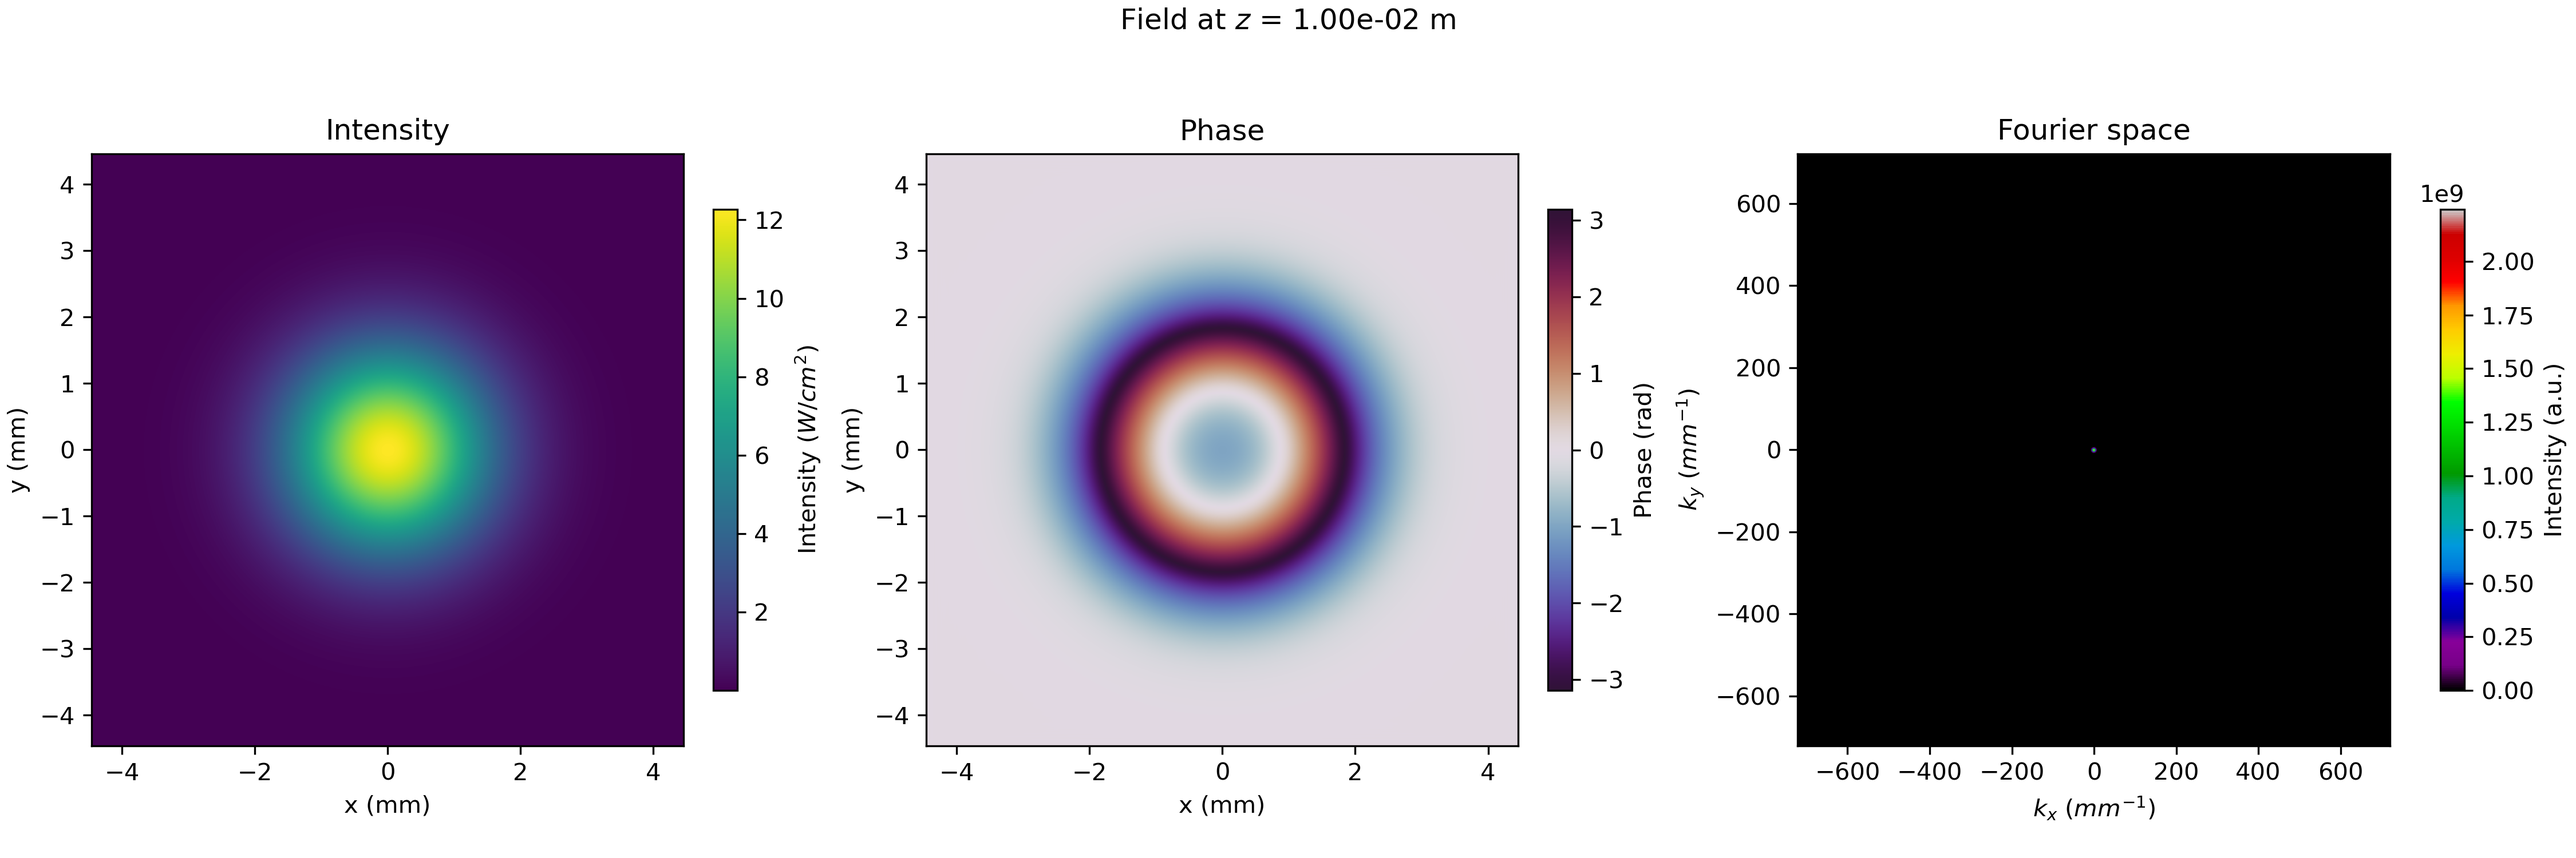
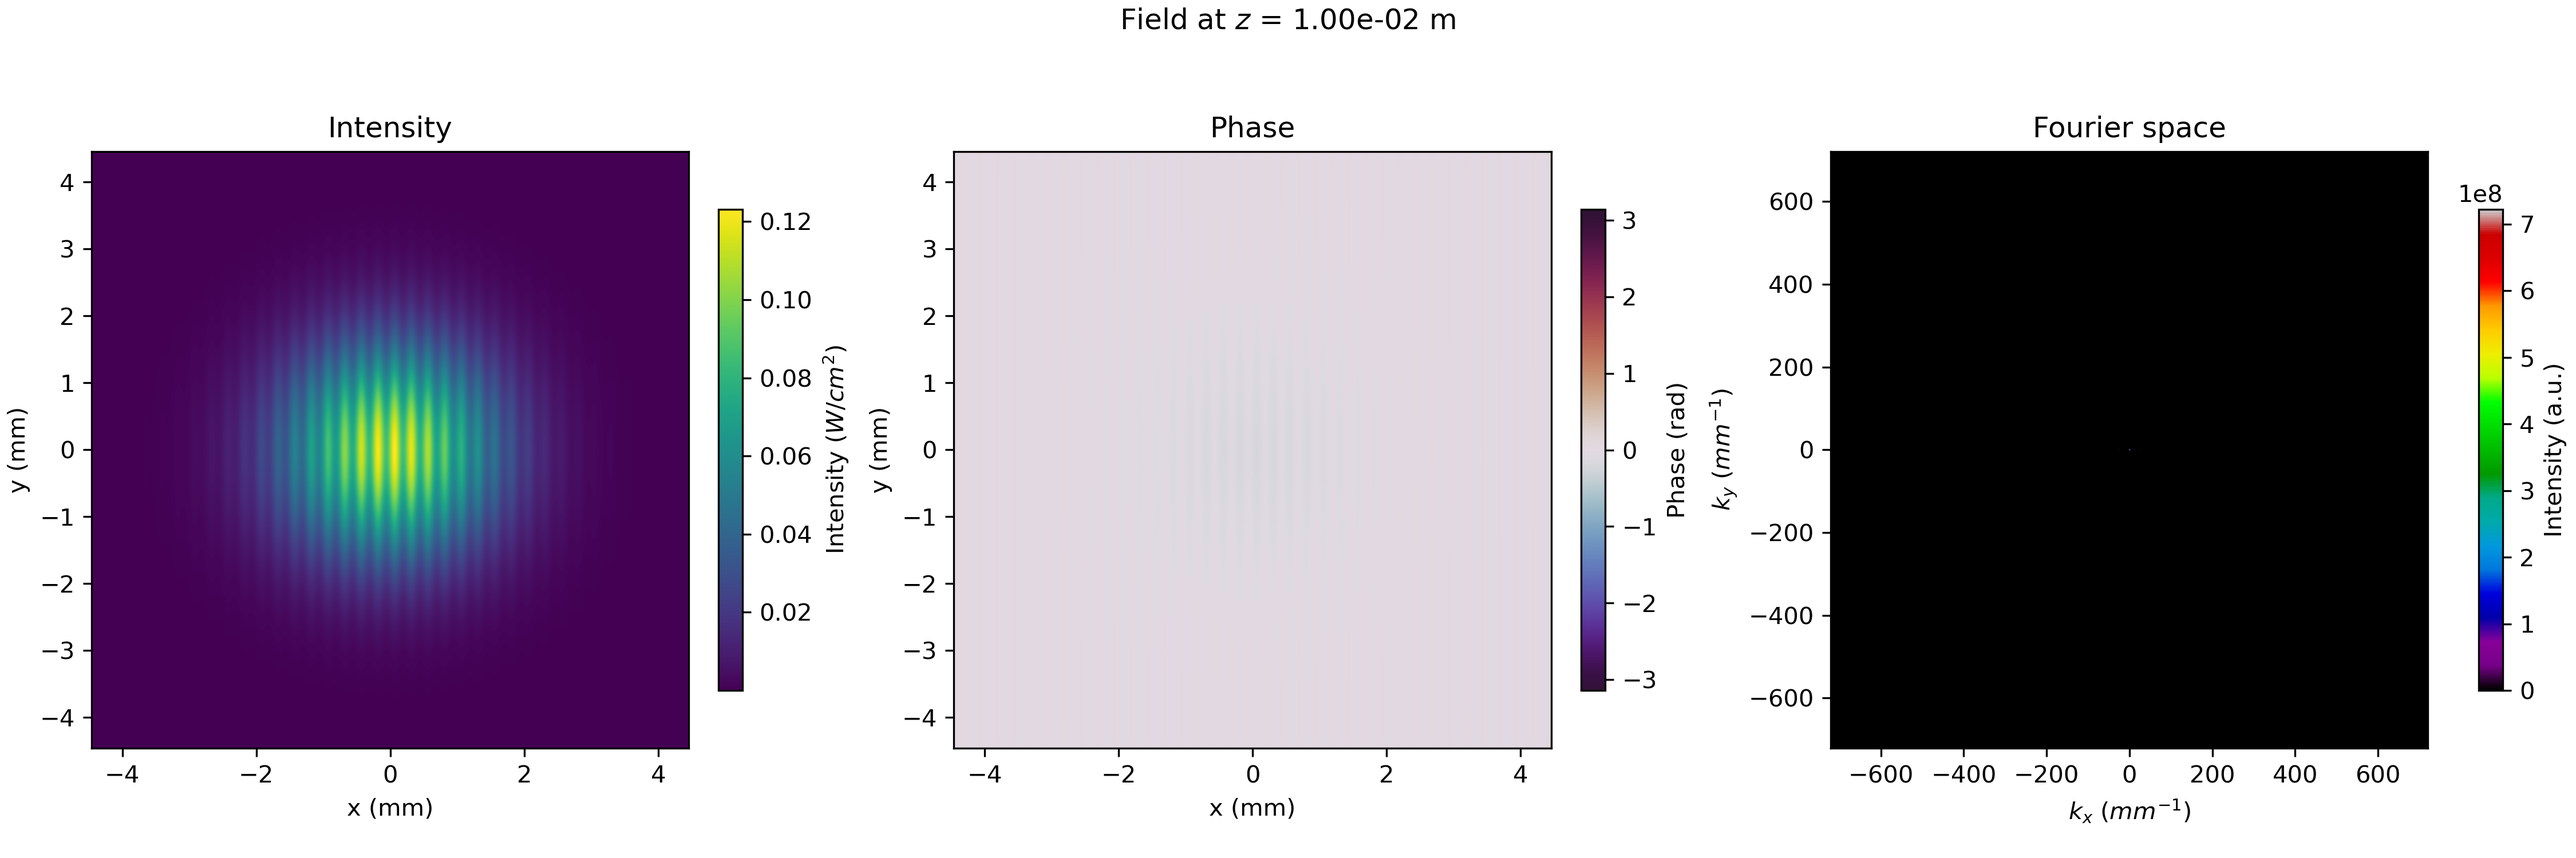
extracting 1Dcut from center of output profile

diff --git a/raul/Bogoliubov.py b/raul/Bogoliubov.py
@@ -11,10 +11,12 @@ n2 = -1.6e-9
 waist = 2.23e-3
 waist2 = 70e-6
 window = 4 * waist
-puiss = 1.05
+puiss = 0.01
 Isat = 10e4  # saturation intensity in W/m^2
 L = 10e-3
 alpha = 20
+k_p = 2*np.pi/(5e-4) # perturbation k for measuring Bogoliubov dispersion
+amp_p = 0.1 #amplitude of perturbation
 
 
 def main():
@@ -31,15 +33,22 @@ def main():
         backend="GPU",
     )
     simu.delta_z = 0.5e-4
-    E_0 = np.exp(-(simu.XX**2 + simu.YY**2) / waist**2).astype(
+    E_0 = (np.exp(-(simu.XX**2 + simu.YY**2) / waist**2)*(1 + amp_p*np.sin(2*k_p*simu.XX))).astype(
         PRECISION_COMPLEX
     )
     #simu.V = -1e-4 * np.exp(-(simu.XX**2 + simu.YY**2) / waist2**2).astype(
     #    PRECISION_COMPLEX
     #)
     A_plot = simu.out_field(E_0, L, verbose=True, plot=True, precision="single")
+
+    plt.figure()
+    plt.plot(abs(A_plot[int(simu.NX/2),:]))
+    plt.savefig("img/1Dcut.png")
+
+    plt.figure()
+    #save the plot_field
     simu.plot_field(A_plot,L,True,"img/Output2.png")
-    #Plot the pot_field
+
 
 if __name__ == "__main__":
     main()
